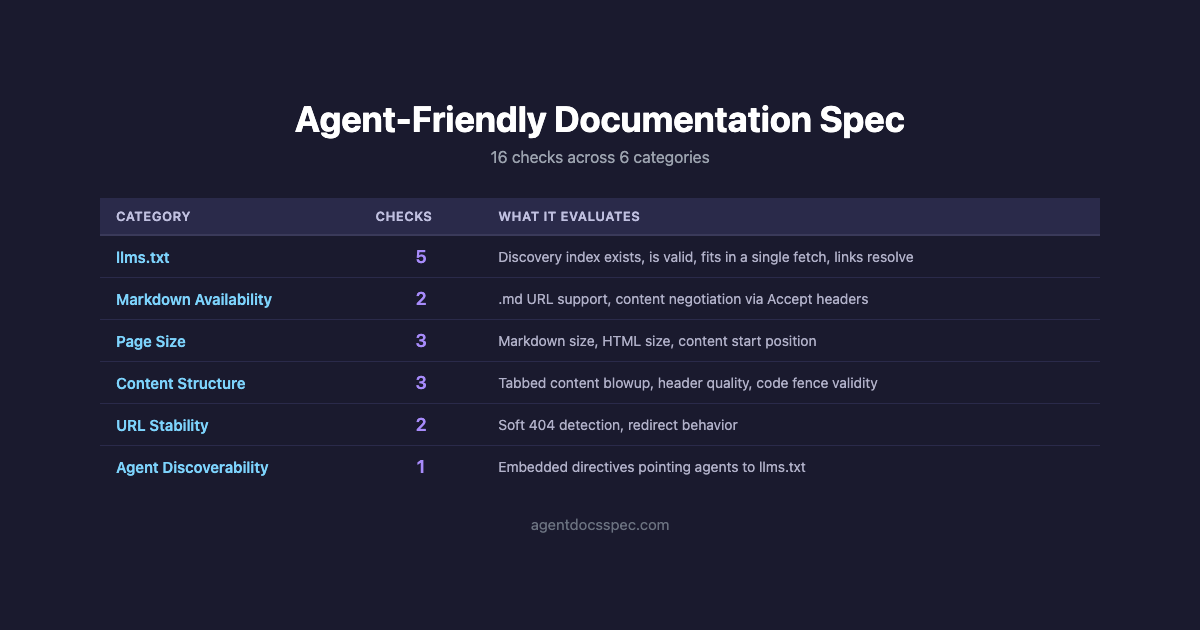
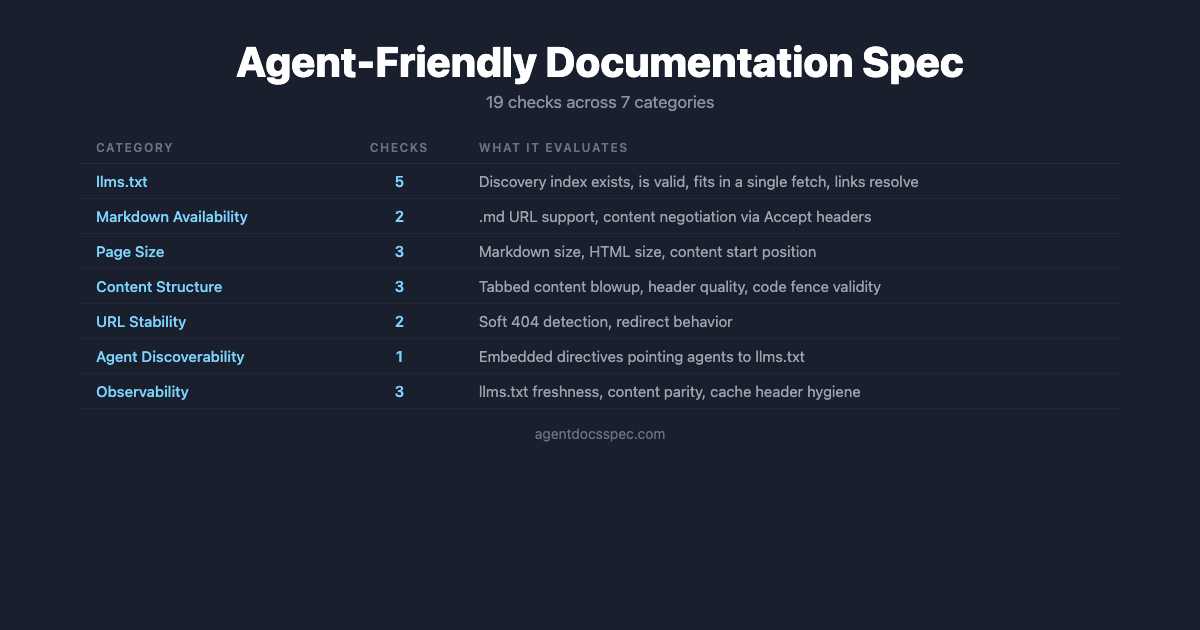
Add observability and monitoring to spec

diff --git a/site/sharing-image.html b/site/sharing-image.html
@@ -1,0 +1,128 @@
+<!DOCTYPE html>
+<html>
+<head>
+<meta charset="utf-8">
+<style>
+  * { margin: 0; padding: 0; box-sizing: border-box; }
+  body {
+    width: 1200px;
+    height: 630px;
+    background: #1a1f2e;
+    font-family: -apple-system, BlinkMacSystemFont, "Segoe UI", Roboto, sans-serif;
+    color: #c8cdd8;
+    display: flex;
+    flex-direction: column;
+    align-items: center;
+    padding: 36px 80px 20px;
+    overflow: hidden;
+  }
+  h1 {
+    color: #ffffff;
+    font-size: 42px;
+    font-weight: 800;
+    margin-bottom: 6px;
+    text-align: center;
+  }
+  .subtitle {
+    font-size: 17px;
+    color: #8891a4;
+    margin-bottom: 20px;
+  }
+  .table-wrap {
+    width: 100%;
+  }
+  table {
+    width: 100%;
+    border-collapse: collapse;
+  }
+  thead th {
+    text-align: left;
+    font-size: 12px;
+    font-weight: 600;
+    letter-spacing: 1.5px;
+    color: #6b7280;
+    text-transform: uppercase;
+    padding: 8px 16px;
+    border-bottom: 1px solid #2a3040;
+  }
+  thead th:nth-child(2) {
+    text-align: center;
+  }
+  tbody td {
+    padding: 8px 16px;
+    font-size: 15px;
+    border-bottom: 1px solid #222838;
+  }
+  tbody td:first-child {
+    color: #7dd3fc;
+    font-weight: 500;
+  }
+  tbody td:nth-child(2) {
+    text-align: center;
+    color: #7dd3fc;
+    font-weight: 600;
+  }
+  tbody td:nth-child(3) {
+    color: #9ca3af;
+  }
+  .url {
+    font-size: 14px;
+    color: #6b7280;
+    margin-top: 16px;
+  }
+</style>
+</head>
+<body>
+  <h1>Agent-Friendly Documentation Spec</h1>
+  <p class="subtitle">19 checks across 7 categories</p>
+  <div class="table-wrap">
+    <table>
+      <thead>
+        <tr>
+          <th>Category</th>
+          <th>Checks</th>
+          <th>What it evaluates</th>
+        </tr>
+      </thead>
+      <tbody>
+        <tr>
+          <td>llms.txt</td>
+          <td>5</td>
+          <td>Discovery index exists, is valid, fits in a single fetch, links resolve</td>
+        </tr>
+        <tr>
+          <td>Markdown Availability</td>
+          <td>2</td>
+          <td>.md URL support, content negotiation via Accept headers</td>
+        </tr>
+        <tr>
+          <td>Page Size</td>
+          <td>3</td>
+          <td>Markdown size, HTML size, content start position</td>
+        </tr>
+        <tr>
+          <td>Content Structure</td>
+          <td>3</td>
+          <td>Tabbed content blowup, header quality, code fence validity</td>
+        </tr>
+        <tr>
+          <td>URL Stability</td>
+          <td>2</td>
+          <td>Soft 404 detection, redirect behavior</td>
+        </tr>
+        <tr>
+          <td>Agent Discoverability</td>
+          <td>1</td>
+          <td>Embedded directives pointing agents to llms.txt</td>
+        </tr>
+        <tr>
+          <td>Observability</td>
+          <td>3</td>
+          <td>llms.txt freshness, content parity, cache header hygiene</td>
+        </tr>
+      </tbody>
+    </table>
+  </div>
+  <p class="url">agentdocsspec.com</p>
+</body>
+</html>

diff --git a/SPEC.md b/SPEC.md
@@ -15,7 +15,7 @@ Documentation sites are increasingly consumed by coding agents rather than
 human readers, but most sites are not built for this access pattern. Agents
 hit truncation limits, get walls of CSS instead of content, can't follow
 cross-host redirects, and don't know about emerging discovery mechanisms like
-`llms.txt`. This spec defines 16 checks across 6 categories that evaluate how
+`llms.txt`. This spec defines 19 checks across 7 categories that evaluate how
 well a documentation site serves agent consumers. It is grounded in empirical
 observation of real agent workflows and is intended as a shared standard for
 documentation teams, tool builders, and platform providers.
@@ -88,7 +88,7 @@ Sections of this spec are either **normative** (defining checks and their
 pass/warn/fail criteria) or **informational** (providing context, evidence,
 and recommendations). The distinction is noted where it matters:
 
-- **Normative sections**: Category 1-6 check definitions, Checks Summary
+- **Normative sections**: Category 1-7 check definitions, Checks Summary
   table.
 - **Informational sections**: Background, Scope, Start Here, "How Agents Get
   Content", "Who Actually Uses llms.txt?", Progressive Disclosure
@@ -129,6 +129,12 @@ are ordered by impact based on observed agent behavior:
    redirects. Avoid cross-host redirects, JavaScript redirects, and soft 404s.
    Checks: `http-status-codes`, `redirect-behavior`
 
+6. **Monitor your agent-facing resources.** Treat `llms.txt` and markdown
+   endpoints like any other production surface: check freshness, verify
+   content parity with HTML, and ensure cache headers allow timely updates.
+   Checks: `llms-txt-freshness`, `markdown-content-parity`,
+   `cache-header-hygiene`
+
 ## Spec Structure
 
 Each check has:
@@ -155,8 +161,12 @@ Some checks depend on the results of others:
 - `markdown-code-fence-validity` only runs if `markdown-url-support` or
   `content-negotiation` passes (the site must serve markdown for this check
   to apply). It also runs against any discovered `llms.txt` files.
+- `llms-txt-freshness` only runs if `llms-txt-exists` passes.
+- `markdown-content-parity` only runs if `markdown-url-support` or
+  `content-negotiation` passes (the site must serve markdown for this check
+  to apply).
 
-Implementations should run checks in category order (1 through 6) and skip
+Implementations should run checks in category order (1 through 7) and skip
 dependent checks when their prerequisites fail.
 
 ### A Note on Responsible Use
@@ -745,6 +755,118 @@ and navigate content effectively.
 
 ---
 
+## Category 7: Observability and Content Health
+
+These checks evaluate whether the site's agent-facing resources stay accurate
+and up to date over time. Categories 1-6 can be evaluated as point-in-time
+audits; this category addresses the ongoing maintenance dimension. `llms.txt`
+files and markdown endpoints are secondary outputs that often aren't wired
+into existing monitoring, so they can go stale, break, or drift from primary
+HTML content without anyone noticing.
+
+### `llms-txt-freshness`
+
+- **What it checks**: Whether `llms.txt` content reflects the current state
+  of the documentation site.
+- **Why it matters**: An `llms.txt` that was accurate at launch but hasn't
+  been updated since is a silent failure mode. New pages won't appear in the
+  index, deleted pages will send agents to 404s, and renamed pages will
+  produce redirect chains or broken links. Unlike `llms-txt-links-resolve`
+  (which catches broken links), this check catches missing coverage: pages
+  that exist on the site but aren't represented in `llms.txt`.
+- **Result levels**:
+  - **Pass**: `llms.txt` links cover the site's primary pages and no links
+    point to removed content.
+  - **Warn**: Some live pages are missing from `llms.txt`, or `llms.txt`
+    hasn't been updated recently relative to site changes.
+  - **Fail**: `llms.txt` contains significant stale links or is missing
+    large sections of the documentation.
+- **Automation**: Heuristic. Compare links in `llms.txt` against a sitemap
+  or crawled page list; flag pages present in the sitemap but absent from
+  `llms.txt`. Check `Last-Modified` or `ETag` headers on `llms.txt` vs.
+  recently changed doc pages.
+- **Notes**: The definition of "primary pages" requires judgment. Not every
+  page needs to be in `llms.txt` (changelog pages, release notes archives,
+  and similar low-value pages can reasonably be omitted). Implementations
+  should allow configurable exclusion patterns.
+
+### `markdown-content-parity`
+
+- **What it checks**: Whether markdown versions of pages contain the same
+  substantive content as their HTML counterparts.
+- **Why it matters**: When markdown is generated separately from HTML (rather
+  than being the source that HTML is built from), the two can drift. A site
+  might update an HTML page but forget to regenerate the markdown version,
+  leaving agents with outdated instructions or code examples. This is
+  particularly insidious because agents that receive the markdown version
+  have no signal that a newer HTML version exists.
+- **Result levels**:
+  - **Pass**: Markdown and HTML versions contain equivalent content.
+  - **Warn**: Minor differences detected (formatting variations, whitespace,
+    navigation elements present in one but not the other).
+  - **Fail**: Substantive content differences: missing sections, outdated
+    code examples, or different instructions between the two versions.
+- **Automation**: Heuristic. Fetch both versions, extract text content from
+  HTML (strip tags), and compare key sections (headings, code blocks,
+  paragraph content) for meaningful differences. Minor formatting
+  differences should be ignored.
+- **Notes**: Sites where markdown is the source format and HTML is generated
+  from it are less likely to have parity issues, but the check is still
+  valuable as a safety net for build pipeline failures.
+
+### `cache-header-hygiene`
+
+- **What it checks**: Whether `llms.txt` and markdown endpoints have cache
+  headers that allow timely updates.
+- **Why it matters**: Aggressive caching on agent-facing resources means
+  that even after a site owner updates their `llms.txt` or markdown content,
+  agents (and intermediary CDNs) may continue serving stale versions for
+  hours or days. Conversely, no cache headers at all leads to ambiguous
+  behavior where different CDN providers apply their own defaults. For
+  resources that are relatively small and infrequently fetched, short cache
+  lifetimes with revalidation are appropriate.
+- **Result levels**:
+  - **Pass**: Cache headers allow timely updates (e.g., `max-age` under
+    3600, or uses `must-revalidate` with `ETag`/`Last-Modified`).
+  - **Warn**: Moderate caching (1-24 hours) that could delay updates.
+  - **Fail**: Aggressive caching (over 24 hours) with no revalidation
+    mechanism, or no cache headers at all (ambiguous behavior).
+- **Automation**: Full. Inspect `Cache-Control`, `Expires`, `ETag`, and
+  `Last-Modified` response headers.
+
+### Ongoing Monitoring Recommendations
+
+The three checks above can be run as one-time audits, but they're most
+valuable when run on a schedule. This section offers non-normative guidance
+on integrating agent-facing resources into existing monitoring workflows.
+
+**Include `llms.txt` and markdown endpoints in uptime monitoring.** These
+resources should be monitored alongside your primary documentation site. A
+200 response from your docs homepage doesn't guarantee that `/llms.txt` or
+`.md` URL variants are also healthy. Add them to whatever uptime tool you
+already use (Pingdom, Uptime Robot, Checkly, etc.) as separate check targets.
+
+**Set up alerting for response time degradation.** If your `llms.txt` or
+markdown endpoints start responding slowly, agents may time out before
+receiving content. This is especially relevant for dynamically generated
+markdown (as opposed to static files), where a backend issue could cause
+latency spikes that don't affect the HTML site.
+
+**Run freshness and parity checks on a schedule.** Rather than treating
+`llms-txt-freshness` and `markdown-content-parity` as one-time audits, run
+them weekly or on every deploy. A CI check that compares `llms.txt` link
+coverage against the sitemap can catch missing pages before they reach
+production.
+
+**Monitor for silent failures.** A 200 response with empty content, a
+generic error message, or a login page is worse than a clean 404, because
+agents will try to extract information from the response. Check that
+`llms.txt` and markdown responses contain expected content markers (e.g., an
+H1, a minimum character count) rather than just checking for a 200 status
+code.
+
+---
+
 ## Checks Summary
 
 | ID | Category | Automation | Severity | Depends On |
@@ -765,6 +887,9 @@ and navigate content effectively.
 | `http-status-codes` | URL Stability | Full | Medium | -- |
 | `redirect-behavior` | URL Stability | Partial | Medium | -- |
 | `llms-txt-directive` | Agent Discoverability | Heuristic | Medium | -- |
+| `llms-txt-freshness` | Observability | Heuristic | High | `llms-txt-exists` |
+| `markdown-content-parity` | Observability | Heuristic | Medium | `markdown-url-support` or `content-negotiation` |
+| `cache-header-hygiene` | Observability | Full | Medium | -- |
 
 ## Appendix A: Known Platform Truncation Limits
 
@@ -896,7 +1021,7 @@ welcome.
 
 ### v0.1.0 (2026-02-21) - Initial Draft
 
-- Initial spec with 16 checks across 6 categories.
+- Initial spec with 19 checks across 7 categories.
 - Progressive disclosure recommendation for large `llms.txt` files.
 - Known platform truncation limits (Appendix A).
 - Notable exclusions with rationale (Appendix B).

diff --git a/README.md b/README.md
@@ -29,7 +29,7 @@ fall back on training data, or silently work with partial information.
 
 ## What the Spec Covers
 
-The spec defines **16 checks across 6 categories**:
+The spec defines **19 checks across 7 categories**:
 
 | Category | Checks | What it evaluates |
 |----------|--------|-------------------|
@@ -39,6 +39,7 @@ The spec defines **16 checks across 6 categories**:
 | Content Structure | 3 | Tabbed content serialization blowup, section header quality, code fence validity |
 | URL Stability | 2 | Soft 404 detection, redirect behavior |
 | Agent Discoverability | 1 | Embedded directives pointing agents to `llms.txt` |
+| Observability | 3 | `llms.txt` freshness, markdown/HTML content parity, cache header hygiene |
 
 Each check has defined pass/warn/fail criteria, an automation level, and
 severity. See the [Checks Summary](SPEC.md#checks-summary) in the full spec.
@@ -57,6 +58,9 @@ If you can only do a few things, these have the highest impact:
    ([Example](SPEC.md#llms-txt-directive))
 5. **Don't break your URLs.** Use same-host HTTP redirects if you must move
    content. ([Details](SPEC.md#category-5-url-stability-and-redirects))
+6. **Monitor your agent-facing resources.** Keep `llms.txt` fresh, verify
+   markdown parity, and check cache headers.
+   ([Details](SPEC.md#category-7-observability-and-content-health))
 
 ## Background
 

diff --git a/site/content/_index.md b/site/content/_index.md
@@ -12,7 +12,7 @@ about emerging discovery mechanisms like `llms.txt`.
 The result: agents frequently fail to get the documentation they need, fall
 back on training data, or silently work with partial information.
 
-This spec defines **16 checks across 6 categories** that evaluate how well a
+This spec defines **19 checks across 7 categories** that evaluate how well a
 documentation site serves agent consumers.
 
 | Category | Checks | What it evaluates |
@@ -23,6 +23,7 @@ documentation site serves agent consumers.
 | Content Structure | 3 | Tabbed content serialization blowup, section header quality, code fence validity |
 | URL Stability | 2 | Soft 404 detection, redirect behavior |
 | Agent Discoverability | 1 | Embedded directives pointing agents to `llms.txt` |
+| Observability | 3 | `llms.txt` freshness, markdown/HTML content parity, cache header hygiene |
 
 Each check has defined pass/warn/fail criteria, an automation level, and
 severity.
@@ -41,6 +42,8 @@ If you can only do a few things, these have the highest impact:
 4. **Add an `llms.txt` pointer** to the top of every docs page.
 5. **Don't break your URLs.** Use same-host HTTP redirects if you must move
    content.
+6. **Monitor your agent-facing resources.** Keep `llms.txt` fresh, verify
+   markdown parity, and check cache headers.
 
 ## Background
 
